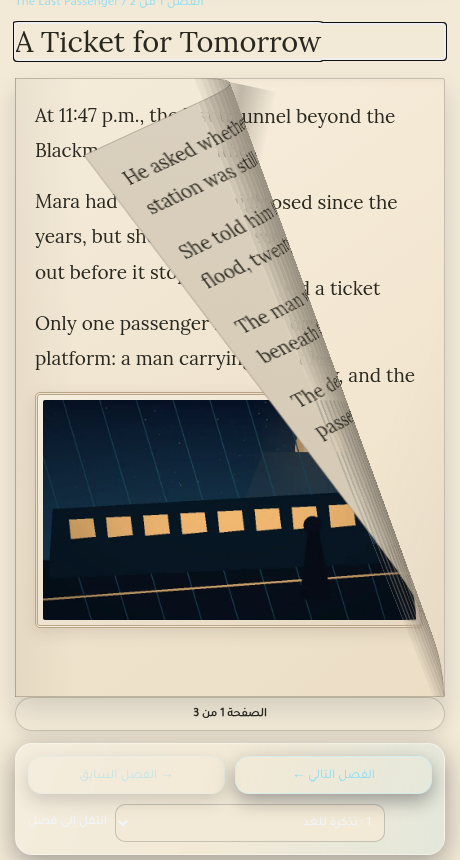
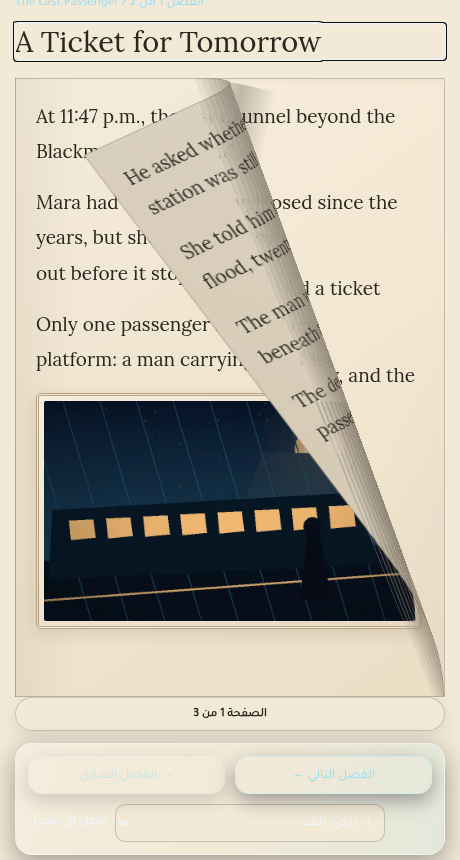
fix(reader): validate real touch capture, RTL viewport and original image inspection

diff --git a/app/src/main/assets/physical-page-curl.js b/app/src/main/assets/physical-page-curl.js
@@ -19,7 +19,7 @@ function clip(poly,n,limit,above){
 // are planar; the belly consists of joined tangent facets, tapering at the
 // opposite edge. This is a geometric model, not a finite-element paper solver.
 function geometry(width,height,distance,vertical,grabY,edge='right',segments=20){
- const w=Math.max(1,width),h=Math.max(1,height),d=clamp(distance,0,2*w);
+ const w=Math.max(1,Number.isFinite(width)?width:1),h=Math.max(1,Number.isFinite(height)?height:1),d=clamp(distance,0,2*w);
  const p=d/(2*w),dy=clamp(vertical,-d*.65,d*.65)*(1-p*p);
  const length=Math.hypot(d,dy)||1,n={x:d/length||1,y:-dy/length};
  const radius=Math.min(w*.085, d/(Math.PI+2))*Math.sin(Math.PI*p)**.55;
@@ -108,7 +108,8 @@ function mount(options){
   Object.assign(stage.style,{left:rect.left-hostRect.left+'px',top:rect.top-hostRect.top+'px',width:rect.width+'px',height:rect.height+'px'});
   const style=win.getComputedStyle(h.page);
   stage.style.setProperty('--lt-curl-paper',style.backgroundColor==='rgba(0, 0, 0, 0)'?'#f7f1e3':style.backgroundColor);
-  stage.style.setProperty('--lt-curl-padding',style.padding);
+  const inset=['Top','Right','Bottom','Left'].map(side=>(parseFloat(style['padding'+side])+parseFloat(style['border'+side+'Width']))+'px').join(' ');
+  stage.style.setProperty('--lt-curl-padding',inset);
   stage.style.setProperty('--lt-curl-paper-image',style.backgroundImage);
   const front=inertCopy(h.page),back=h.back?inertCopy(h.back):null;
   // Match computed paper padding/font; the copies inherit all reader language styles.
@@ -192,7 +193,7 @@ function mount(options){
  }
  function start(h){h.started=true;if(!reduced.matches)makeVisual(h);emit('start',h);}
  function turn(delta,source='control'){
-  if(dead||(delta!==1&&delta!==-1))return false;
+  if(dead||!host.isConnected||(delta!==1&&delta!==-1))return false;
   if(hold)cancel('superseded');
   const h=begin(delta,(delta>0)!==rtl?'right':'left',source);if(!h)return false;
   h.grabY=h.height*.84;start(h);settle(true);return true;
@@ -216,7 +217,7 @@ function mount(options){
   h.pointer=e.pointerId;h.startX=e.clientX;h.startY=e.clientY;h.grabY=clamp(e.clientY-h.top,0,h.height);h.lastAt=e.timeStamp;
  });
  // A second finger elsewhere (e.g. over an illustration) cancels as well.
- on(doc,'pointerdown',e=>{if(hold&&!hold.settling&&hold.pointer!==undefined&&e.pointerId!==hold.pointer)cancel('second-pointer');},true);
+ on(doc,'pointerdown',e=>{if(hold&&(e.isPrimary===false||(!hold.settling&&hold.pointer!==undefined&&e.pointerId!==hold.pointer)))cancel('second-pointer');},true);
  on(host,'pointermove',e=>{
   const h=hold;if(!h||h.pointer!==e.pointerId||h.settling)return;
   let first=false;
@@ -231,9 +232,11 @@ function mount(options){
   h.distance=clamp(d,0,2*h.width);h.vertical=dy;suppressUntil=Date.now()+450;
   if(first)paint(h);else request();if(e.cancelable)e.preventDefault();
  },{passive:false});
- on(doc,'pointerup',e=>{if(hold?.pointer===e.pointerId){const h=hold;const v=e.timeStamp-h.lastAt>100?0:h.velocity;settle(shouldCommit(h.distance,h.width,v));}},true);
+ on(doc,'pointerup',e=>{if(hold?.pointer===e.pointerId){const h=hold;if(h.started)suppressUntil=Date.now()+450;const v=e.timeStamp-h.lastAt>100?0:h.velocity;settle(shouldCommit(h.distance,h.width,v));}},true);
  on(doc,'pointercancel',e=>{if(hold?.pointer===e.pointerId)cancel('pointercancel');},true);
- on(host,'lostpointercapture',e=>{if(hold?.pointer===e.pointerId&&!hold.settling)cancel('capture-lost');});
+ // Touch implicitly captures on the original child. Its bubbling loss during
+ // transfer to host is expected; only a loss on our actual owner cancels.
+ on(host,'lostpointercapture',e=>{if(e.target===host&&hold?.pointer===e.pointerId&&!hold.settling)cancel('capture-lost');});
  on(host,'pointerleave',e=>{if(hold?.pointer===e.pointerId&&!hold.started)cancel('leave');});
  on(host,'click',e=>{if(Date.now()<suppressUntil){e.preventDefault();e.stopImmediatePropagation();}},{capture:true});
  on(doc,'keydown',e=>{if(e.key==='Escape'&&hold){cancel('escape');e.preventDefault();e.stopImmediatePropagation();}},true);
@@ -241,7 +244,7 @@ function mount(options){
  on(win,'resize',()=>cancel('resize'));
  on(doc,'visibilitychange',()=>{if(doc.hidden)cancel('hidden');});
  const preference=()=>cancel('motion-preference');reduced.addEventListener?.('change',preference);
- const observer=new win.MutationObserver(()=>{if(!host.isConnected)api.destroy();else if(doc.querySelector('#modals .sheet,.lt-art-inspector'))cancel('modal');});
+ const observer=new win.MutationObserver(()=>{if(!host.isConnected)api.destroy();else if(doc.querySelector('#modals .sheet,.lt-art-inspection-backdrop'))cancel('modal');});
  observer.observe(doc.body,{childList:true,subtree:true});
  const api={turn,cancel,cancelIfActive(){if(!hold)return false;cancel('back');return true;},get active(){return !!hold?.started;},destroy(){if(dead)return;cancel('destroy');dead=true;listeners.forEach(off=>off());observer.disconnect();reduced.removeEventListener?.('change',preference);}};
  return api;

diff --git a/app/src/main/assets/physical-page-curl.css b/app/src/main/assets/physical-page-curl.css
@@ -1,5 +1,5 @@
 /* Only the paper renderer; shell themes and paper presets remain independent. */
-.reader #sentences.lt-curl-book{position:relative;isolation:isolate;touch-action:pan-y;display:grid;grid-template-columns:1fr;gap:0;direction:ltr;overflow:visible}
+.reader #sentences.lt-curl-book{position:relative;isolation:isolate;touch-action:pan-y;display:grid;grid-template-columns:1fr;gap:0;direction:ltr;overflow:hidden;overflow:clip;overflow-clip-margin:0}
 .reader #sentences.lt-curl-book[data-spread="2"]{grid-template-columns:1fr 1fr}
 .reader .lt-curl-book>.lt-book-page{box-sizing:border-box;width:100%;margin:0;min-width:0;border-radius:2px;min-height:min(72vh,850px);transform:none;animation:none}
 .reader .lt-curl-book>.lt-book-page.is-active{grid-row:1;grid-column:var(--lt-page-column,1)}

diff --git a/docs/LINGUA_TALES_MASTER_PLAN.md b/docs/LINGUA_TALES_MASTER_PLAN.md
@@ -139,3 +139,9 @@ The user delegated all real literature sourcing, authentic historic original art
 - Adds a tapered 22-facet HTML sheet, visible adjacent-page reverse, actual underpage, velocity-aware spring release, correct source-language binding and two-page landscape spreads. Original dictionary nodes and existing storage remain intact. Native Back gets only the narrow fold-cancel hook. API and StPageFlip 2.0.7 research: `docs/PHYSICAL_PAGE_CURL_API.md`.
 - Local validation before concurrent-main integration: all 106 Node test files PASS; new real Chromium acceptance PASS in LTR/RTL portrait/spread, including no-commit cancellation, exactly-one commit, dictionary single invocation, chapter boundaries and rotation/rebuild/saved anchors. Existing Python signing/update contract (5 cases), JS syntax and audio-focus checks PASS. Full existing Chromium suite and Android/Actions are still pending.
 - Not a signed APK or device acceptance. Xiaomi Pad 5 touch feel, 120Hz/frame pacing, GPU memory/thermal and TalkBack remain unverified. The model is a ruled geometric approximation, not finite-element physics; adjacent-chapter previews are bounded source text. No key/package/content/user-data changes.
+
+### RDR-01 final touch/visual hardening — 5 November 2026
+- PR #19: https://github.com/amroalhamedi2022-hue/Storylens/pull/19 . Integrated current main `52a1561`, preserving literature, theme/material and font work. Integrated source `b8b1cf28566ee956407c796e92c50633a5b1c3bb` passed complete Android/Node/Chromium Actions #42090740800: https://github.com/amroalhamedi2022-hue/Storylens/actions/runs/42090740800 .
+- Subsequent browser-generated TOUCH testing found implicit capture transfers bubbling from the original child and cancelling a real drag. Fixed ownership check; real touch now completes. Held Arabic screenshot inspection found transformed facet bounds expanding horizontal overflow; bounded the visual surface and added an on-screen positioning assertion. Reverse text is visible, centred correctly, and uses the actual adjacent HTML. Border/padding metrics match the original page to avoid changed line wrapping.
+- Final local checks: **109 Node files PASS**, pure geometry checks **324 configurations plus mirrored counterparts PASS**. Real Chromium 155 / Playwright 1.62.1: **four language/layout suites plus browser touch suite PASS**. Covers vertical edge scrolling, real two-contact cancellation, exactly-once commit, rapid controls, capture transfer, original historic-image inspection, caught settling sheet, dictionary single invocation, reduced motion, chapter boundaries, saved anchors and rotation/rebuild. Updated four held-page PNGs under `docs/qa/physical-page-curl-20261105/`.
+- The prior integrated full Actions run is green; the newly hardened source requires its own exact-SHA CI run, tracked in PR #19. No physical Xiaomi Pad 5 test, verified 120 FPS, TalkBack acceptance or signed release claimed. Chapter-boundary previews remain bounded source text; see the API document for model limitations.

diff --git a/docs/handoffs/LINGUA_TALES_HANDOFF_CURRENT.md b/docs/handoffs/LINGUA_TALES_HANDOFF_CURRENT.md
@@ -183,3 +183,9 @@ Dedicated literature/archive conversation created for real complete original boo
 - Adds a tapered 22-facet HTML sheet, visible adjacent-page reverse, actual underpage, velocity-aware spring release, correct source-language binding and two-page landscape spreads. Original dictionary nodes and existing storage remain intact. Native Back gets only the narrow fold-cancel hook. API and StPageFlip 2.0.7 research: `docs/PHYSICAL_PAGE_CURL_API.md`.
 - Local validation before concurrent-main integration: all 106 Node test files PASS; new real Chromium acceptance PASS in LTR/RTL portrait/spread, including no-commit cancellation, exactly-one commit, dictionary single invocation, chapter boundaries and rotation/rebuild/saved anchors. Existing Python signing/update contract (5 cases), JS syntax and audio-focus checks PASS. Full existing Chromium suite and Android/Actions are still pending.
 - Not a signed APK or device acceptance. Xiaomi Pad 5 touch feel, 120Hz/frame pacing, GPU memory/thermal and TalkBack remain unverified. The model is a ruled geometric approximation, not finite-element physics; adjacent-chapter previews are bounded source text. No key/package/content/user-data changes.
+
+### RDR-01 final touch/visual hardening — 5 November 2026
+- PR #19: https://github.com/amroalhamedi2022-hue/Storylens/pull/19 . Integrated current main `52a1561`, preserving literature, theme/material and font work. Integrated source `b8b1cf28566ee956407c796e92c50633a5b1c3bb` passed complete Android/Node/Chromium Actions #42090740800: https://github.com/amroalhamedi2022-hue/Storylens/actions/runs/42090740800 .
+- Subsequent browser-generated TOUCH testing found implicit capture transfers bubbling from the original child and cancelling a real drag. Fixed ownership check; real touch now completes. Held Arabic screenshot inspection found transformed facet bounds expanding horizontal overflow; bounded the visual surface and added an on-screen positioning assertion. Reverse text is visible, centred correctly, and uses the actual adjacent HTML. Border/padding metrics match the original page to avoid changed line wrapping.
+- Final local checks: **109 Node files PASS**, pure geometry checks **324 configurations plus mirrored counterparts PASS**. Real Chromium 155 / Playwright 1.62.1: **four language/layout suites plus browser touch suite PASS**. Covers vertical edge scrolling, real two-contact cancellation, exactly-once commit, rapid controls, capture transfer, original historic-image inspection, caught settling sheet, dictionary single invocation, reduced motion, chapter boundaries, saved anchors and rotation/rebuild. Updated four held-page PNGs under `docs/qa/physical-page-curl-20261105/`.
+- The prior integrated full Actions run is green; the newly hardened source requires its own exact-SHA CI run, tracked in PR #19. No physical Xiaomi Pad 5 test, verified 120 FPS, TalkBack acceptance or signed release claimed. Chapter-boundary previews remain bounded source text; see the API document for model limitations.

diff --git a/docs/plans/LINGUA_TALES_READER_REDESIGN_2026-11-05.md b/docs/plans/LINGUA_TALES_READER_REDESIGN_2026-11-05.md
@@ -86,3 +86,9 @@ Not done because a plan or CSS mockup exists. Every RDR item requires implemente
 - Adds a tapered 22-facet HTML sheet, visible adjacent-page reverse, actual underpage, velocity-aware spring release, correct source-language binding and two-page landscape spreads. Original dictionary nodes and existing storage remain intact. Native Back gets only the narrow fold-cancel hook. API and StPageFlip 2.0.7 research: `docs/PHYSICAL_PAGE_CURL_API.md`.
 - Local validation before concurrent-main integration: all 106 Node test files PASS; new real Chromium acceptance PASS in LTR/RTL portrait/spread, including no-commit cancellation, exactly-one commit, dictionary single invocation, chapter boundaries and rotation/rebuild/saved anchors. Existing Python signing/update contract (5 cases), JS syntax and audio-focus checks PASS. Full existing Chromium suite and Android/Actions are still pending.
 - Not a signed APK or device acceptance. Xiaomi Pad 5 touch feel, 120Hz/frame pacing, GPU memory/thermal and TalkBack remain unverified. The model is a ruled geometric approximation, not finite-element physics; adjacent-chapter previews are bounded source text. No key/package/content/user-data changes.
+
+### RDR-01 final touch/visual hardening — 5 November 2026
+- PR #19: https://github.com/amroalhamedi2022-hue/Storylens/pull/19 . Integrated current main `52a1561`, preserving literature, theme/material and font work. Integrated source `b8b1cf28566ee956407c796e92c50633a5b1c3bb` passed complete Android/Node/Chromium Actions #42090740800: https://github.com/amroalhamedi2022-hue/Storylens/actions/runs/42090740800 .
+- Subsequent browser-generated TOUCH testing found implicit capture transfers bubbling from the original child and cancelling a real drag. Fixed ownership check; real touch now completes. Held Arabic screenshot inspection found transformed facet bounds expanding horizontal overflow; bounded the visual surface and added an on-screen positioning assertion. Reverse text is visible, centred correctly, and uses the actual adjacent HTML. Border/padding metrics match the original page to avoid changed line wrapping.
+- Final local checks: **109 Node files PASS**, pure geometry checks **324 configurations plus mirrored counterparts PASS**. Real Chromium 155 / Playwright 1.62.1: **four language/layout suites plus browser touch suite PASS**. Covers vertical edge scrolling, real two-contact cancellation, exactly-once commit, rapid controls, capture transfer, original historic-image inspection, caught settling sheet, dictionary single invocation, reduced motion, chapter boundaries, saved anchors and rotation/rebuild. Updated four held-page PNGs under `docs/qa/physical-page-curl-20261105/`.
+- The prior integrated full Actions run is green; the newly hardened source requires its own exact-SHA CI run, tracked in PR #19. No physical Xiaomi Pad 5 test, verified 120 FPS, TalkBack acceptance or signed release claimed. Chapter-boundary previews remain bounded source text; see the API document for model limitations.

diff --git a/docs/LINGUA_TALES_LIVE_STATUS.md b/docs/LINGUA_TALES_LIVE_STATUS.md
@@ -619,3 +619,9 @@ Source baseline reviewed: main 064258074b4a3c4d5fb139aa4c163a28ca27b66a / CI #41
 - Merged concurrent main `d0fc13a` without changing its font, material or theme features. New Chromium acceptance re-run PASS in all four language/layout combinations after integration.
 - Browser screenshots exposed a real reverse-ink defect: inherited left-side transform origin moved mirrored text off the sheet. Corrected the local mirror origin and backface visibility, added a regression assertion, and inspected the resulting real text on the reverse. Lighting now interpolates across the curved facets. Release timeout uses elapsed wall time, so a delayed frame cannot strand settling indefinitely.
 - New exact-source GitHub Android/full Chromium Actions remains pending until PR creation; screenshots and API are included for review. Physical-device acceptance remains open.
+
+### RDR-01 final touch/visual hardening — 5 November 2026
+- PR #19: https://github.com/amroalhamedi2022-hue/Storylens/pull/19 . Integrated current main `52a1561`, preserving literature, theme/material and font work. Integrated source `b8b1cf28566ee956407c796e92c50633a5b1c3bb` passed complete Android/Node/Chromium Actions #42090740800: https://github.com/amroalhamedi2022-hue/Storylens/actions/runs/42090740800 .
+- Subsequent browser-generated TOUCH testing found implicit capture transfers bubbling from the original child and cancelling a real drag. Fixed ownership check; real touch now completes. Held Arabic screenshot inspection found transformed facet bounds expanding horizontal overflow; bounded the visual surface and added an on-screen positioning assertion. Reverse text is visible, centred correctly, and uses the actual adjacent HTML. Border/padding metrics match the original page to avoid changed line wrapping.
+- Final local checks: **109 Node files PASS**, pure geometry checks **324 configurations plus mirrored counterparts PASS**. Real Chromium 155 / Playwright 1.62.1: **four language/layout suites plus browser touch suite PASS**. Covers vertical edge scrolling, real two-contact cancellation, exactly-once commit, rapid controls, capture transfer, original historic-image inspection, caught settling sheet, dictionary single invocation, reduced motion, chapter boundaries, saved anchors and rotation/rebuild. Updated four held-page PNGs under `docs/qa/physical-page-curl-20261105/`.
+- The prior integrated full Actions run is green; the newly hardened source requires its own exact-SHA CI run, tracked in PR #19. No physical Xiaomi Pad 5 test, verified 120 FPS, TalkBack acceptance or signed release claimed. Chapter-boundary previews remain bounded source text; see the API document for model limitations.

diff --git a/docs/PHYSICAL_PAGE_CURL_API.md b/docs/PHYSICAL_PAGE_CURL_API.md
@@ -23,7 +23,7 @@ cloned; only the current sheet and its reverse are copied during a turn.
 A new primary contact can catch a settling sheet without creating a second turn.
 Repeated keyboard/button turns replace an unfinished turn, cancelling it before
 starting the next; they do not queue unbounded animations. Layout replacement,
-modal opening, resize, pointer cancellation, a second finger, lost capture,
+modal opening, resize, pointer cancellation, a second finger, lost host capture,
 window blur and page visibility loss cancel safely. Vertical scrolling wins
 before horizontal lock. Taps on words remain dictionary taps until an actual
 edge drag crosses the lock threshold. Escape cancels; arrows and PageUp/PageDown
@@ -82,7 +82,8 @@ The opposite edge lags at a corner hold, then the taper relaxes across the bindi
 Lighting follows surface angle, with a narrow contact shadow and paper edge.
 The reverse displays actual adjacent-page HTML; artwork is never recoloured or
 rasterized. Spring integration uses elapsed time with <=8ms integration steps,
-not a fixed assumed refresh rate. Only movement and release schedule rAF.
+not a fixed assumed refresh rate. Only movement and release schedule rAF. The visual container clips transformed
+layout overflow so a left-edge fold cannot shift an RTL viewport sideways.
 
 This is not a finite-element paper/material solver. Facets can be discernible at
 extreme zoom; actual WebView GPU memory, finger feel, TalkBack and Xiaomi Pad 5
@@ -114,7 +115,8 @@ there is no additional runtime licence dependency. turn.js was not used.
 - `node tools/physical-page-curl-browser.cjs` with Playwright and Chromium installed:
   actual app, local server, all nonlocal requests blocked; four language/layout
   combinations, live mesh screenshots, cancellation, dictionary, chapter and
-  saved-anchor checks. `CHROME` can select the executable; `CURL_SCREENSHOTS`
+  saved-anchor checks, plus browser-generated touch, implicit capture transfer,
+  vertical edge scroll, real second contact, rapid turns and original image inspection. `CHROME` can select the executable; `CURL_SCREENSHOTS`
   selects the artifact directory.
 - The existing Android workflow runs all Node/Android/Chromium checks and the new
   browser acceptance, uploading `StoryLens-UI-Screenshots`. Generated QA HTML and
